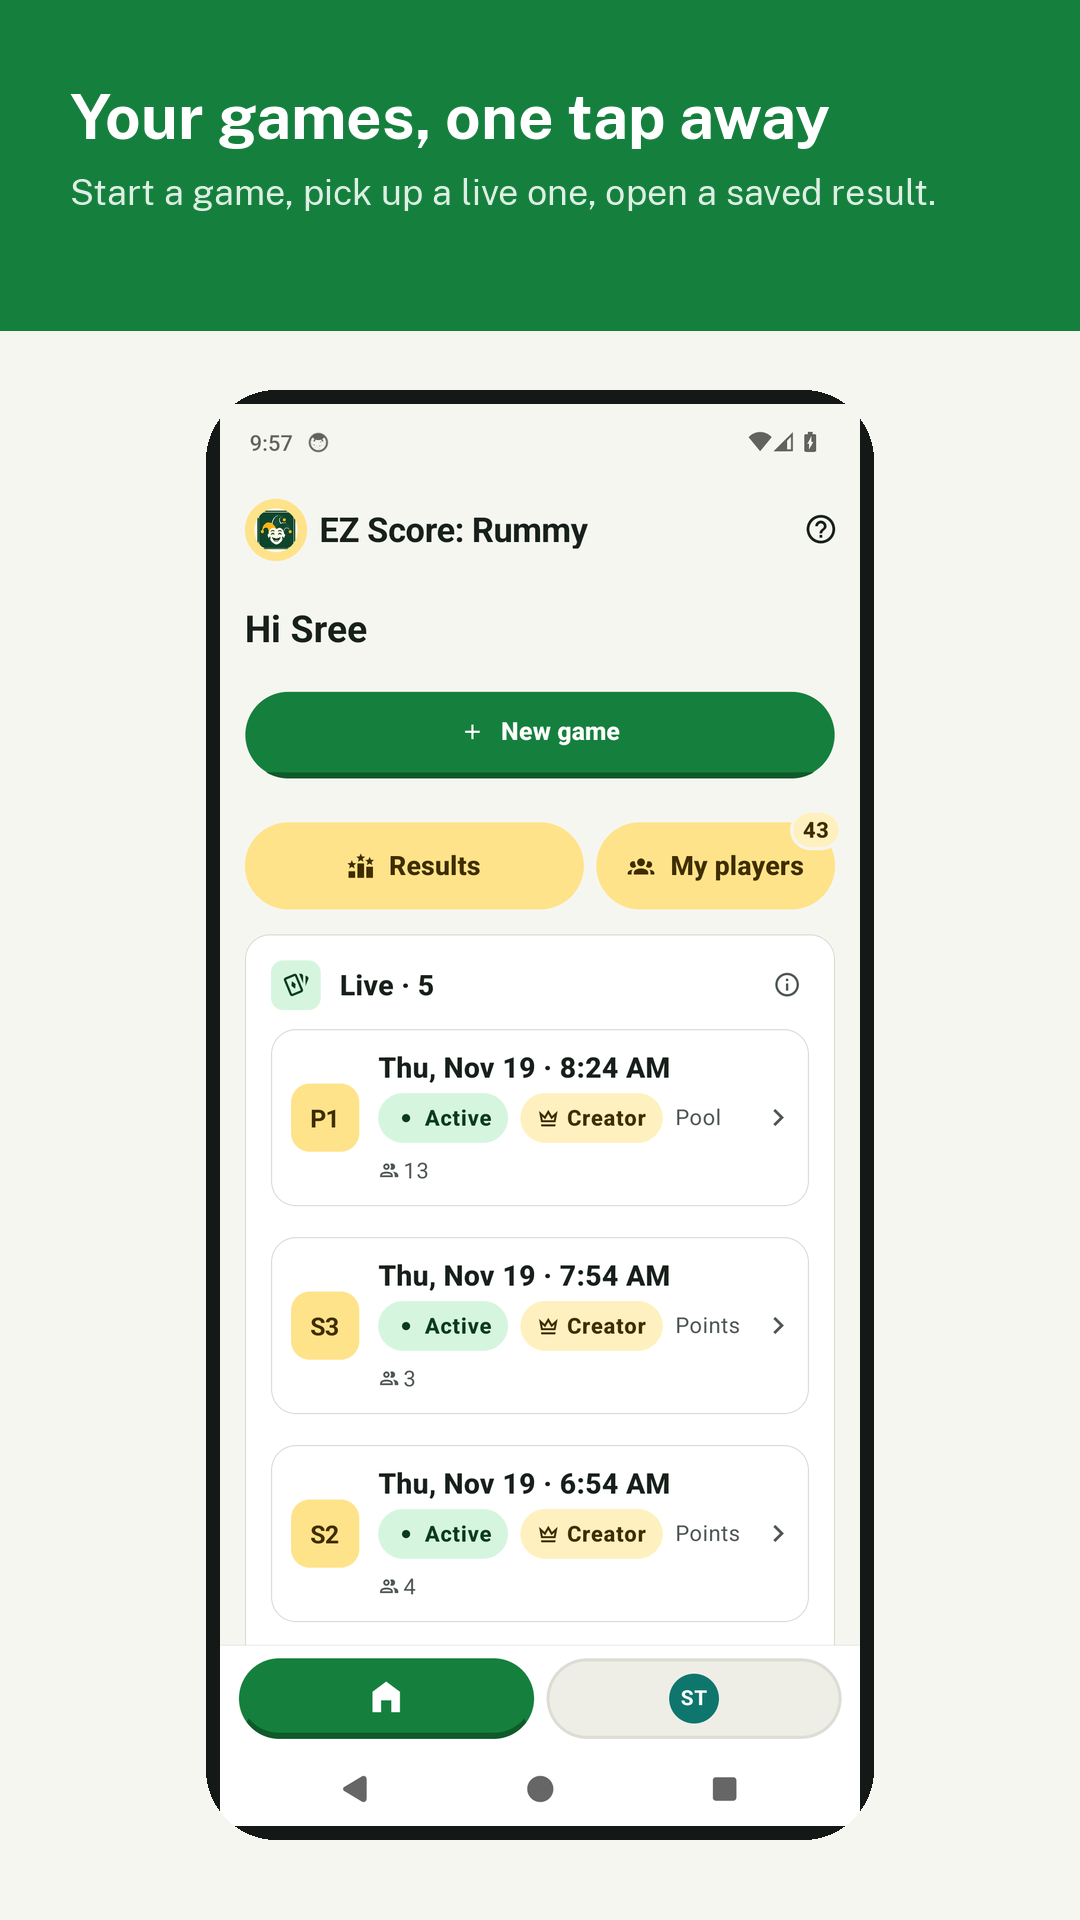
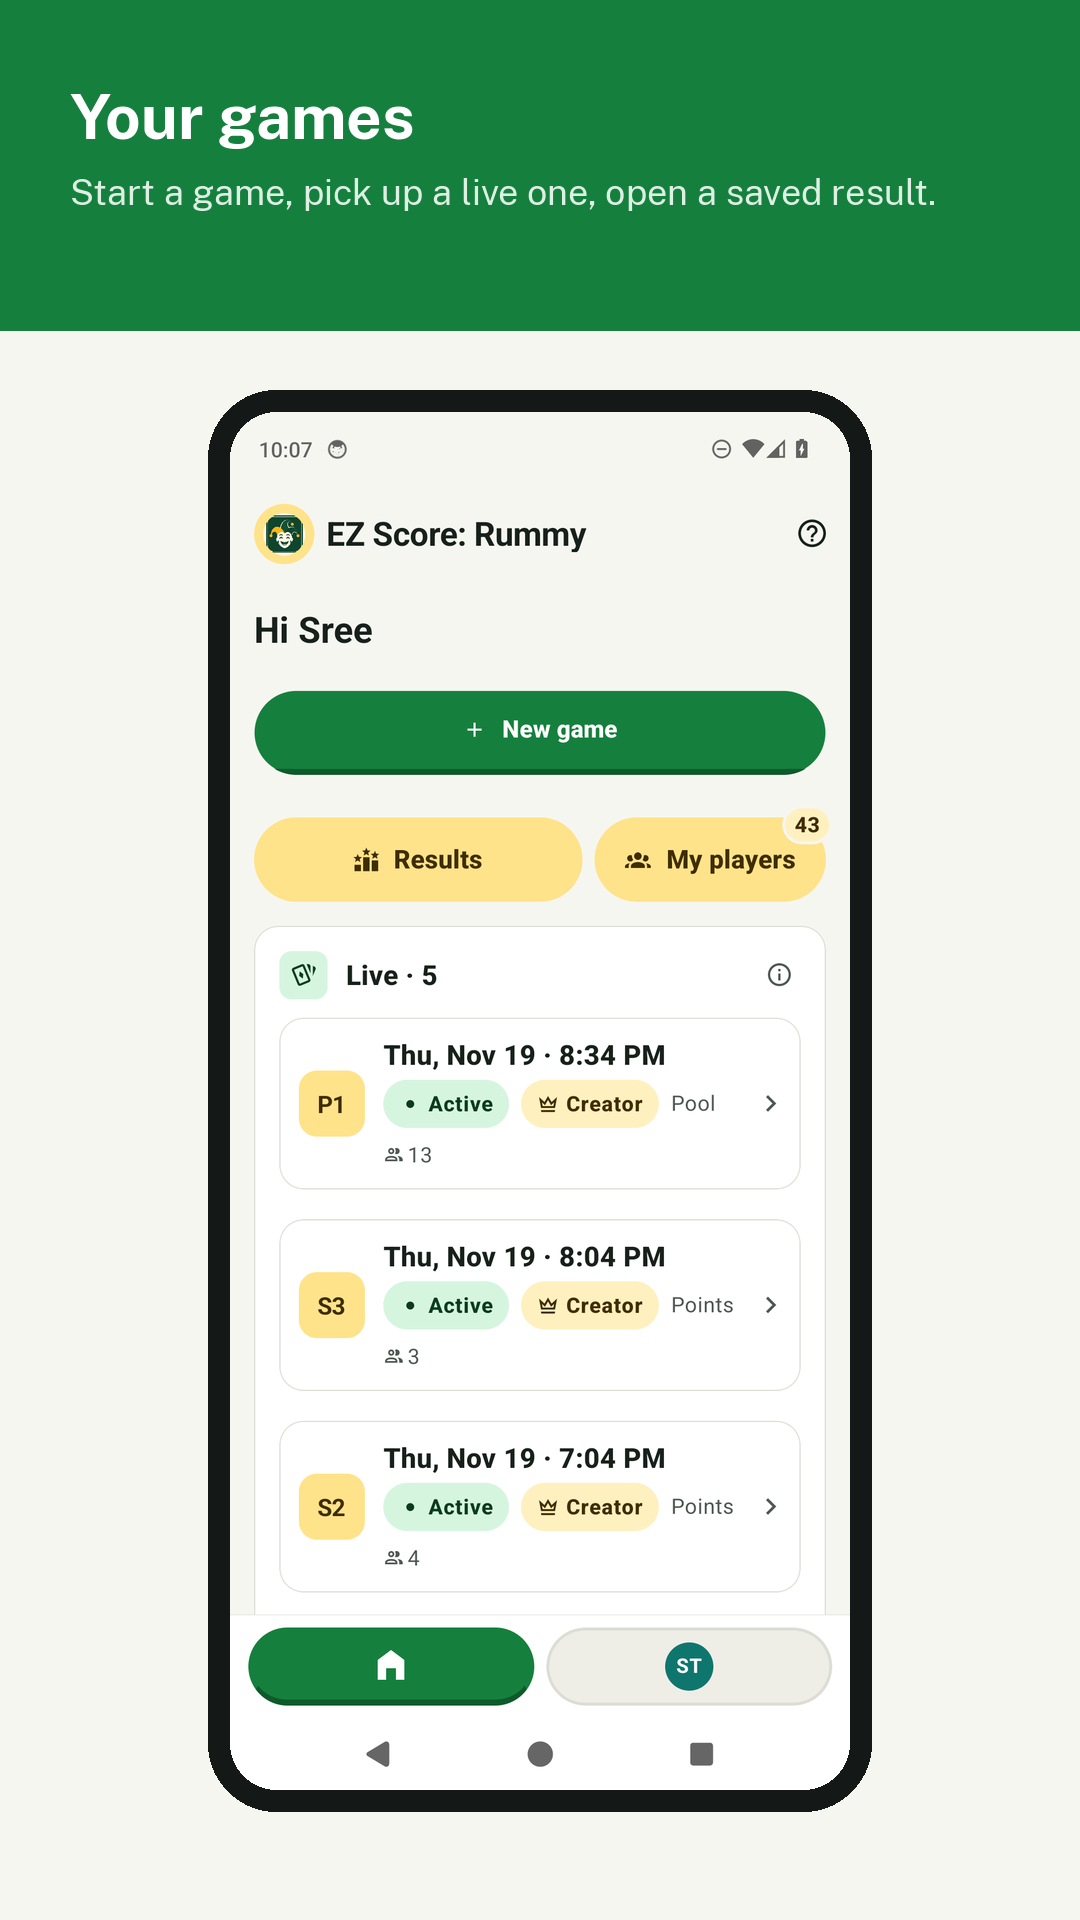
Play listing: assets regenerated with the reworked script from main's frames — ten players sideways (screenshot-8-landscape-10p), 9-player pool, awards split, saved S1 + S2, whole phone in every card; the pre-review set (incl. landscape-20p) removed

Changed region(s): [[0.1833, 0.1875, 0.825, 0.9688], [0.2444, 0.4375, 0.6722, 0.7188], [0.4278, 0.0312, 0.7639, 0.0938]]

diff --git a/rummy-home3/docs/play-listing/README.md b/rummy-home3/docs/play-listing/README.md
@@ -11,7 +11,9 @@ full-bleed, "Your games", pool with nine players, the awards split page, "Consol
 a saved result over S1 + S2, the seating caption for the D56 countdown, ten players sideways (not twenty).
 The frames for the new pictures come from `smoke/22` (PR #102's seed) and `smoke/19` (the countdown).
 
-Images are in `assets/` (made by `make-assets.py <frames-dir>` from the CI device gallery; re-run it after a UI change):
+Images are in `assets/` (made by `make-assets.py <frames-dir>` from the CI device gallery; re-run it after a UI change).
+Last made Nov 20 from the Pixel 6 smoke frames of `main` @ `e800cb2` (#105 merged; CI run 44623483345), which is
+the first set built since the Nov 19 rework — the earlier files were the pre-review set:
 
 | File | Size | Where in the Console |
 | --- | --- | --- |
